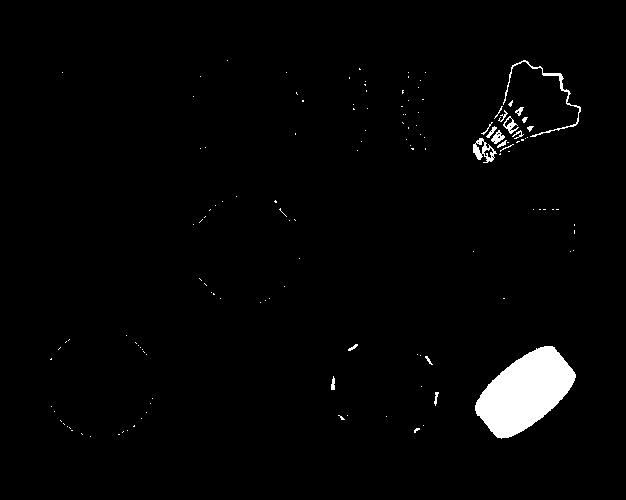
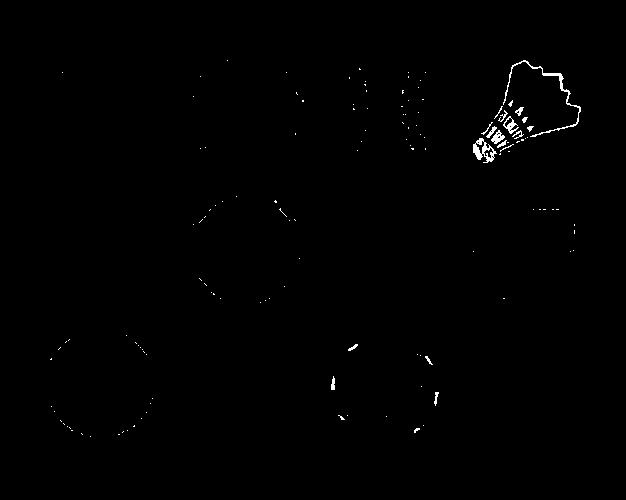
ball8

Changed region(s): [[0.7588, 0.69, 0.9409, 0.9]]

diff --git a/Rafael/atividade7/main.cpp b/Rafael/atividade7/main.cpp
@@ -19,7 +19,7 @@ void getImageLayers(Mat &src, Mat *dst)
     }
 }
 
-void getMaskFromHue(Mat &src, Mat &mask, int begin, int end, int begin_sat = 0, int end_sat = 255, int begin_val = 0, int end_val = 255)
+void getMaskFromHSV(Mat &src, Mat &mask, int begin, int end = 180, int begin_sat = 0, int end_sat = 255, int begin_val = 0, int end_val = 255)
 {
 
     mask = Mat::zeros(src.size(), CV_8UC1);
@@ -60,7 +60,7 @@ int main()
     char filename[100];
     std::string labels;
     Mat layers[8], channels[3];
-    Mat gray, bgr, hsv, mask, ball;
+    Mat gray, bgr, hsv, mask, aux, ball;
     int F_ERODE, F_DILATE, S_ERODE;
 
     // RECEIVING IMAGE
@@ -78,7 +78,7 @@ int main()
 
     {
         // GET BLUE BALL
-        getMaskFromHue(hsv, mask, 100, 108);
+        getMaskFromHSV(hsv, mask, 100, 108);
         imwrite("../images/ball1/initial_mask.jpg", mask);
         F_ERODE = 1, F_DILATE = 4, S_ERODE = 3;
         for (int i = 0; i < F_ERODE; i++)
@@ -97,7 +97,7 @@ int main()
         cvtColor(bgr, gray, COLOR_BGR2GRAY);
         cvtColor(bgr, hsv, COLOR_BGR2HSV);
         // GET BASKETBALL BALL
-        getMaskFromHue(hsv, mask, 10, 15);
+        getMaskFromHSV(hsv, mask, 10, 15);
         imwrite("../images/ball2/initial_mask.jpg", mask);
         F_ERODE = 2, F_DILATE = 13, S_ERODE = 7;
         for (int i = 0; i < F_ERODE; i++)
@@ -128,7 +128,7 @@ int main()
         cvtColor(bgr, gray, COLOR_BGR2GRAY);
         cvtColor(bgr, hsv, COLOR_BGR2HSV);
         // GET FOOTBALL BALL
-        getMaskFromHue(hsv, mask, 6, 9);
+        getMaskFromHSV(hsv, mask, 6, 9);
         imwrite("../images/ball3/initial_mask.jpg", mask);
         F_ERODE = 2, F_DILATE = 15, S_ERODE = 13;
         for (int i = 0; i < F_ERODE; i++)
@@ -159,7 +159,7 @@ int main()
         cvtColor(bgr, gray, COLOR_BGR2GRAY);
         cvtColor(bgr, hsv, COLOR_BGR2HSV);
         // GET FOOTBALL BALL
-        getMaskFromHue(hsv, mask, 28, 40, 128, 256);
+        getMaskFromHSV(hsv, mask, 28, 40, 128, 256);
         imwrite("../images/ball4/initial_mask.jpg", mask);
         F_ERODE = 2, F_DILATE = 15, S_ERODE = 12;
         for (int i = 0; i < F_DILATE; i++)
@@ -184,7 +184,7 @@ int main()
         cvtColor(bgr, gray, COLOR_BGR2GRAY);
         cvtColor(bgr, hsv, COLOR_BGR2HSV);
         // GET FOOTBALL BALL
-        getMaskFromHue(hsv, mask, 20, 25, 180);
+        getMaskFromHSV(hsv, mask, 20, 25, 180);
         imwrite("../images/ball5/initial_mask.jpg", mask);
         F_DILATE = 25, S_ERODE = 22;
         for (int i = 0; i < F_DILATE; i++)
@@ -202,7 +202,7 @@ int main()
         cvtColor(bgr, gray, COLOR_BGR2GRAY);
         cvtColor(bgr, hsv, COLOR_BGR2HSV);
         // GET FOOTBALL BALL
-        getMaskFromHue(hsv, mask, 15, 40, 10, 80);
+        getMaskFromHSV(hsv, mask, 15, 40, 10, 80);
         imwrite("../images/ball6/initial_mask.jpg", mask);
         F_ERODE = 3, F_DILATE = 8, S_ERODE = 0;
         for (int i = 0; i < F_ERODE; i++)
@@ -218,7 +218,71 @@ int main()
         imwrite("../images/ball6/ball.jpg", ball);
         applyMaskBGR(bgr, bgr, mask, true, true);
     }
-
+    {
+        // SET GRAY AND HSV AGAIN
+        cvtColor(bgr, gray, COLOR_BGR2GRAY);
+        cvtColor(bgr, hsv, COLOR_BGR2HSV);
+        // GET FOOTBALL BALL
+        getMaskFromHSV(hsv, mask, 15, 40, 10, 80);
+        imwrite("../images/ball6/initial_mask.jpg", mask);
+        F_ERODE = 3, F_DILATE = 8, S_ERODE = 0;
+        for (int i = 0; i < F_ERODE; i++)
+            erode(mask, mask, rec);
+        imwrite("../images/ball6/first-erode.jpg", mask);
+        for (int i = 0; i < F_DILATE; i++)
+            dilate(mask, mask, ellipse);
+        imwrite("../images/ball6/first-dilate.jpg", mask);
+        for (int i = 0; i < S_ERODE; i++)
+            erode(mask, mask, ellipse);
+        imwrite("../images/ball6/mask.jpg", mask);
+        applyMaskBGR(bgr, ball, mask, false, true);
+        imwrite("../images/ball6/ball.jpg", ball);
+        applyMaskBGR(bgr, bgr, mask, true, true);
+    }
+    {
+        // SET GRAY AND HSV AGAIN
+        cvtColor(bgr, gray, COLOR_BGR2GRAY);
+        cvtColor(bgr, hsv, COLOR_BGR2HSV);
+        // GET FOOTBALL BALL
+        getMaskFromHSV(hsv, mask, 0, 50);
+        imwrite("../images/ball7/initial_mask.jpg", mask);
+        F_ERODE = 9, F_DILATE = 20, S_ERODE = 8;
+        for (int i = 0; i < F_ERODE; i++)
+            erode(mask, mask, cross);
+        imwrite("../images/ball7/first-erode.jpg", mask);
+        for (int i = 0; i < F_DILATE; i++)
+            dilate(mask, mask, rec);
+        imwrite("../images/ball7/first-dilate.jpg", mask);
+        for (int i = 0; i < S_ERODE; i++)
+            erode(mask, mask, cross);
+        imwrite("../images/ball7/mask.jpg", mask);
+        applyMaskBGR(bgr, ball, mask, false, true);
+        imwrite("../images/ball7/ball.jpg", ball);
+        applyMaskBGR(bgr, bgr, mask, true, true);
+    }
+    {
+        // SET GRAY AND HSV AGAIN
+        cvtColor(bgr, gray, COLOR_BGR2GRAY);
+        cvtColor(bgr, hsv, COLOR_BGR2HSV);
+        // GET FOOTBALL BALL
+        getMaskFromHSV(hsv, aux, 20, 50, 15);
+        getMaskFromHSV(hsv, mask, 175, 180, 15);
+        mask |= aux;
+        imwrite("../images/ball8/initial_mask.jpg", mask);
+        F_ERODE = 1, F_DILATE = 10, S_ERODE = 9;
+        for (int i = 0; i < F_ERODE; i++)
+            erode(mask, mask, cross);
+        imwrite("../images/ball8/first-erode.jpg", mask);
+        for (int i = 0; i < F_DILATE; i++)
+            dilate(mask, mask, rec);
+        imwrite("../images/ball8/first-dilate.jpg", mask);
+        for (int i = 0; i < S_ERODE; i++)
+            erode(mask, mask, ellipse);
+        imwrite("../images/ball8/mask.jpg", mask);
+        applyMaskBGR(bgr, ball, mask, false, true);
+        imwrite("../images/ball8/ball.jpg", ball);
+        applyMaskBGR(bgr, bgr, mask, true, true);
+    }
     return 0;
 }
 
